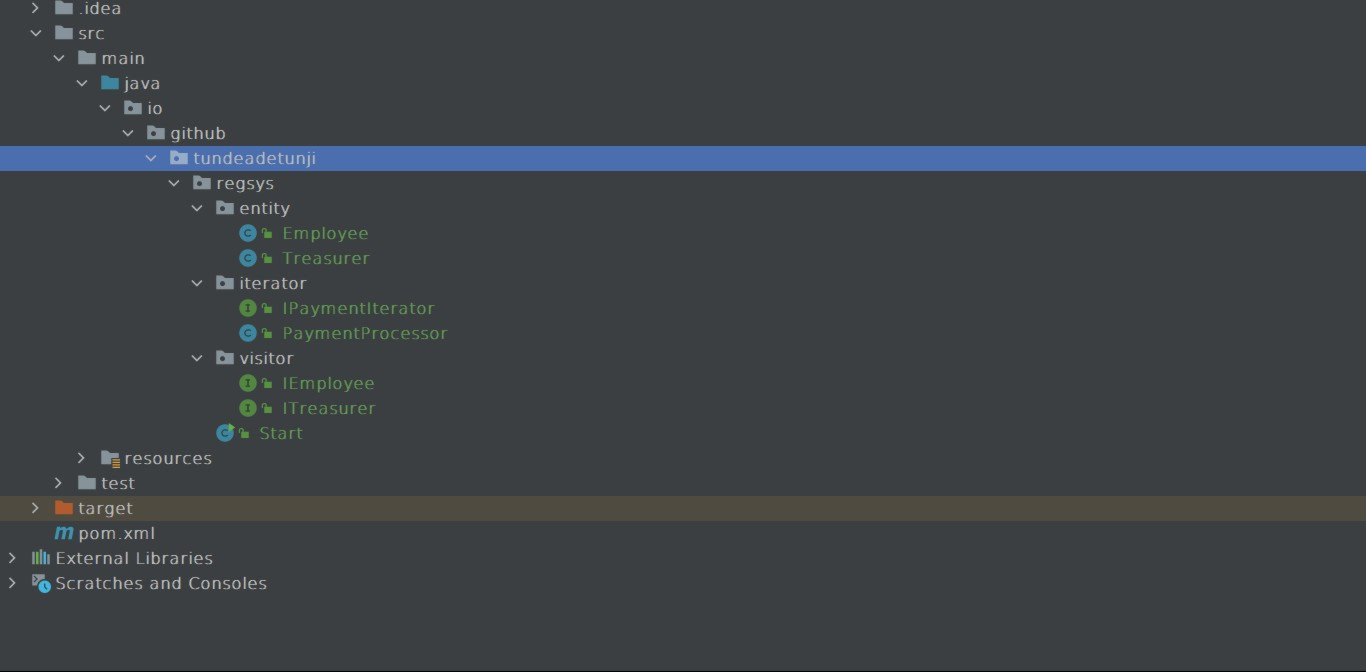
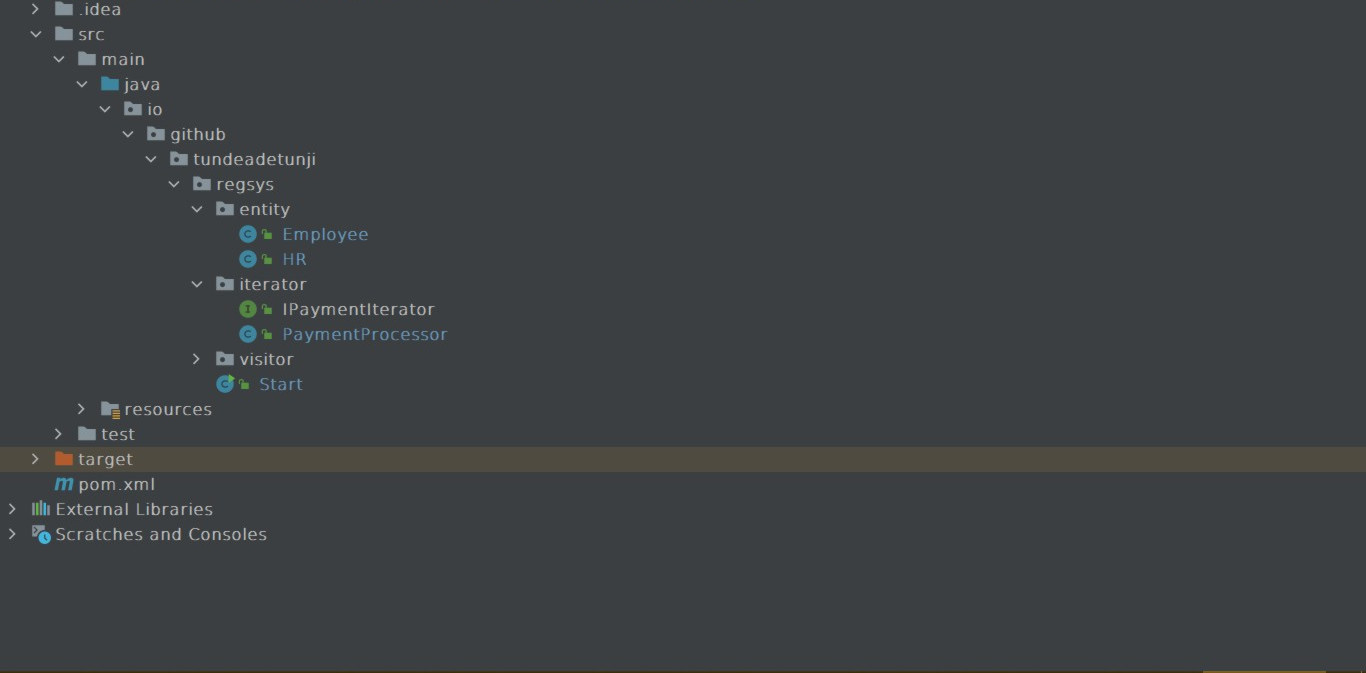
Re-release Visitor_with_Iterator

diff --git a/src/main/java/io/github/tundeadetunji/regsys/Start.java b/src/main/java/io/github/tundeadetunji/regsys/Start.java
@@ -1,11 +1,10 @@
 package io.github.tundeadetunji.regsys;
 
 import io.github.tundeadetunji.regsys.entity.Employee;
-import io.github.tundeadetunji.regsys.entity.Treasurer;
+import io.github.tundeadetunji.regsys.entity.HR;
 import io.github.tundeadetunji.regsys.iterator.IPaymentIterator;
 import io.github.tundeadetunji.regsys.iterator.PaymentProcessor;
 import io.github.tundeadetunji.regsys.visitor.IEmployee;
-import io.github.tundeadetunji.regsys.visitor.ITreasurer;
 
 import java.util.List;
 import java.util.Stack;
@@ -22,7 +21,7 @@ public class Start {
 
         employees.forEach(employee -> payroll.push(employee));
 
-        IPaymentIterator paymentProcessor = new PaymentProcessor(payroll, new Treasurer());
+        IPaymentIterator paymentProcessor = new PaymentProcessor(payroll, new HR());
         while (paymentProcessor.hasNext()){
             paymentProcessor.next(); //no need to do anything else, because of the way we implemented the Iterator
         }

diff --git a/src/main/java/io/github/tundeadetunji/regsys/iterator/PaymentProcessor.java b/src/main/java/io/github/tundeadetunji/regsys/iterator/PaymentProcessor.java
@@ -1,17 +1,17 @@
 package io.github.tundeadetunji.regsys.iterator;
 
 import io.github.tundeadetunji.regsys.visitor.IEmployee;
-import io.github.tundeadetunji.regsys.visitor.ITreasurer;
+import io.github.tundeadetunji.regsys.visitor.Payroll;
 
 import java.util.Stack;
 
 public class PaymentProcessor implements IPaymentIterator {
     Stack<IEmployee> employees;
-    ITreasurer treasurer;
+    Payroll hr;
 
-    public PaymentProcessor(Stack<IEmployee> employees, ITreasurer treasurer) {
+    public PaymentProcessor(Stack<IEmployee> employees, Payroll hr) {
         this.employees = employees;
-        this.treasurer = treasurer;
+        this.hr = hr;
     }
 
     @Override
@@ -25,7 +25,7 @@ public class PaymentProcessor implements IPaymentIterator {
     }
 
     private IEmployee payedThisEmployeeSalary(IEmployee employee){
-        return employee.getPaid(treasurer);
+        return employee.getPaid(hr);
     }
 
 }

diff --git a/src/main/java/io/github/tundeadetunji/regsys/entity/Employee.java b/src/main/java/io/github/tundeadetunji/regsys/entity/Employee.java
@@ -1,7 +1,7 @@
 package io.github.tundeadetunji.regsys.entity;
 
 import io.github.tundeadetunji.regsys.visitor.IEmployee;
-import io.github.tundeadetunji.regsys.visitor.ITreasurer;
+import io.github.tundeadetunji.regsys.visitor.Payroll;
 
 public class Employee implements IEmployee {
     private String name;
@@ -19,7 +19,7 @@ public class Employee implements IEmployee {
     }
 
     @Override
-    public IEmployee getPaid(ITreasurer treasurer) {
-        return treasurer.pay(this);
+    public IEmployee getPaid(Payroll hr) {
+        return hr.pay(this);
     }
 }

diff --git a/src/main/java/io/github/tundeadetunji/regsys/entity/HR.java b/src/main/java/io/github/tundeadetunji/regsys/entity/HR.java
@@ -1,9 +1,9 @@
 package io.github.tundeadetunji.regsys.entity;
 
 import io.github.tundeadetunji.regsys.visitor.IEmployee;
-import io.github.tundeadetunji.regsys.visitor.ITreasurer;
+import io.github.tundeadetunji.regsys.visitor.Payroll;
 
-public class Treasurer implements ITreasurer {
+public class HR implements Payroll {
 
     @Override
     public IEmployee pay(IEmployee employee) {

diff --git a/src/main/java/io/github/tundeadetunji/regsys/visitor/IEmployee.java b/src/main/java/io/github/tundeadetunji/regsys/visitor/IEmployee.java
@@ -1,5 +1,5 @@
 package io.github.tundeadetunji.regsys.visitor;
 
 public interface IEmployee {
-    IEmployee getPaid(ITreasurer treasurer); //equivalent of accept
+    IEmployee getPaid(Payroll hr); //equivalent of accept
 }

diff --git a/src/main/java/io/github/tundeadetunji/regsys/visitor/Payroll.java b/src/main/java/io/github/tundeadetunji/regsys/visitor/Payroll.java
@@ -1,5 +1,5 @@
 package io.github.tundeadetunji.regsys.visitor;
 
-public interface ITreasurer {
+public interface Payroll {
     IEmployee pay(IEmployee employee); //equivalent of visit
 }
